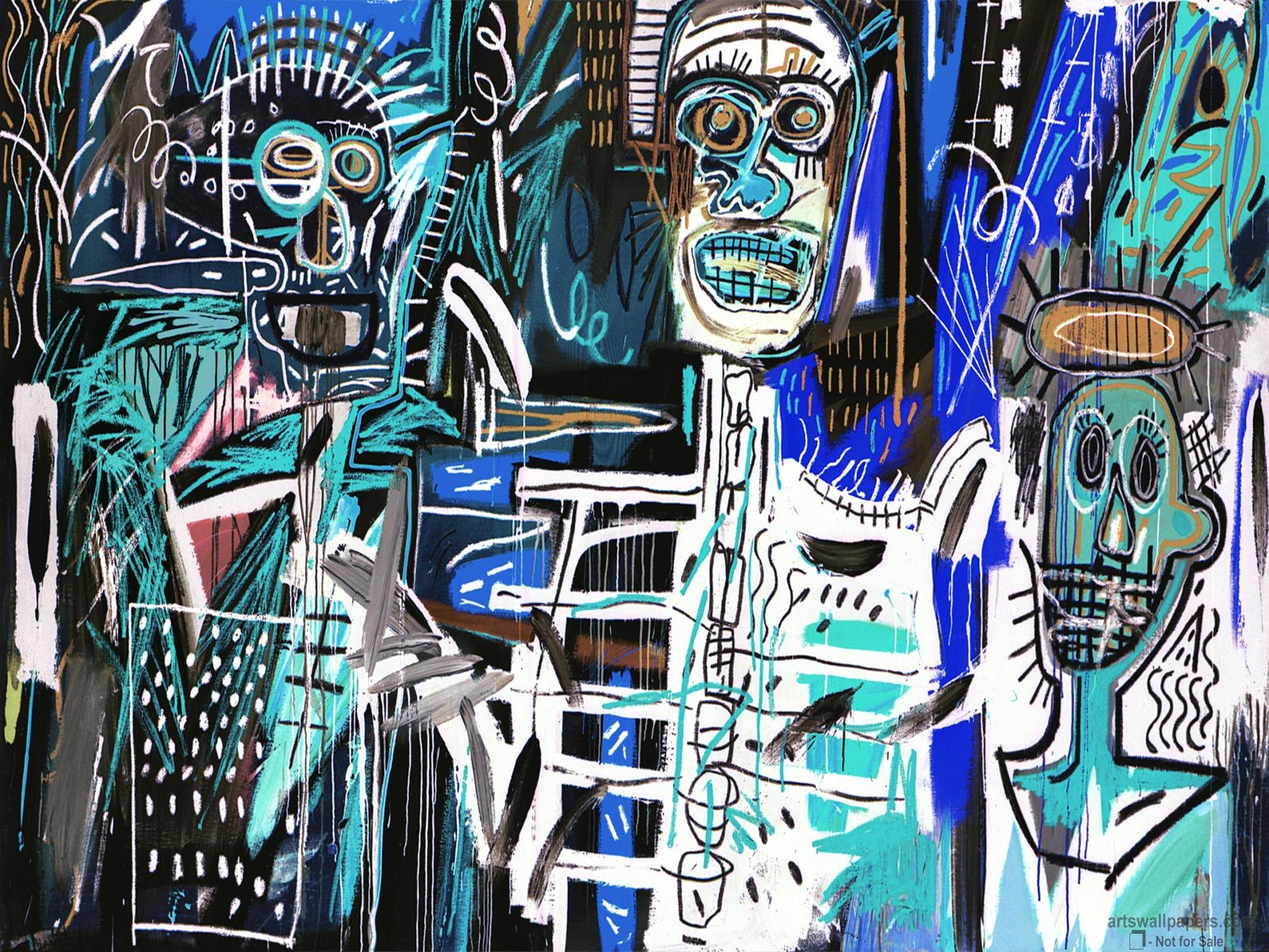
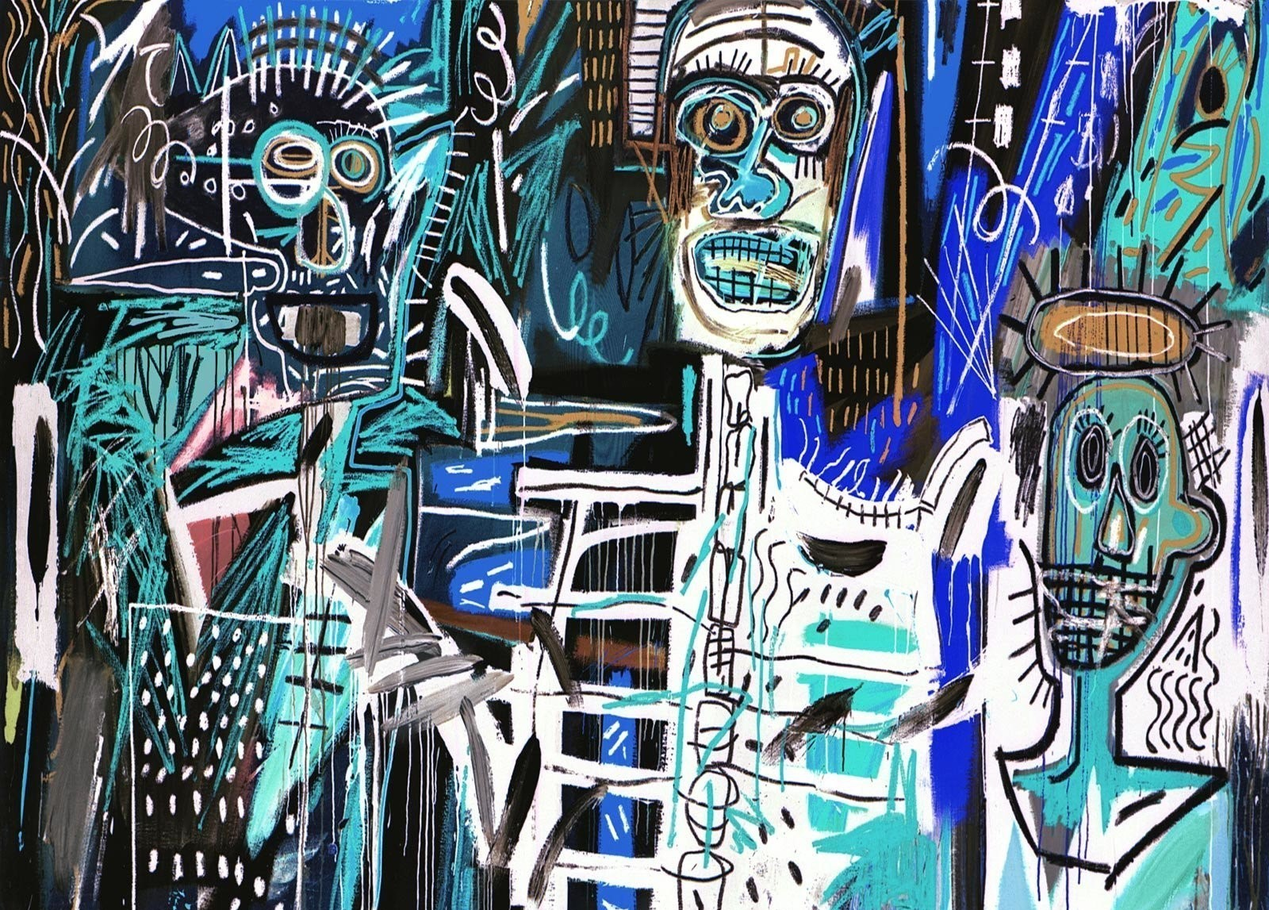
another 5

diff --git a/src/App.js b/src/App.js
@@ -45,7 +45,7 @@ function App() {
                         <br/>
                         On his own, Basquiat continued to exhibit around the country and the world. In 1986, he traveled to Africa for a show in Abidjan, Ivory Coast. That same year, the 25-year-old exhibited nearly 60 paintings at the Kestner-Gesellschaft Gallery in Hanover, Germany — becoming the youngest artist to ever showcase his work there.
                 </Screen>
-                <Screen title={'Personal Problems'} bg={'8'} pic={'1'}>
+                <Screen title={'Personal Problems'} bg={'35'} pic={'1'}>
                         As his popularity soared, so did Basquiat's personal problems. By the mid-1980s, friends became increasingly concerned by his excessive drug use. He became paranoid and isolated himself from the world around him for long stretches. Desperate to kick a heroin addiction, he left New York for Hawaii in 1988, returning a few months later and claiming to be sober.
                 </Screen>
             <Screen title={'Death'} bg={'6'} pic={'3'}>

diff --git a/src/js/NavBar.js b/src/js/NavBar.js
@@ -10,7 +10,7 @@ function NavBar(){
             <NavItem to={'3'}/>
             <NavItem to={'9'}/>
             <NavItem to={'5'}/>
-            <NavItem to={'8'}/>
+            <NavItem to={'35'}/>
             <NavItem to={'6'}/>
         </div>
     )
